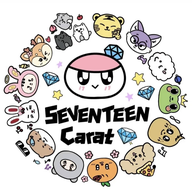
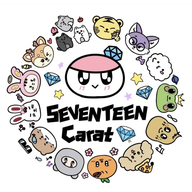
🎨 图标保持原图比例，不裁切不加背景

diff --git a/icons/generate_user_icons.py b/icons/generate_user_icons.py
@@ -4,23 +4,37 @@ import os
 out = os.path.dirname(__file__)
 img = Image.open(os.path.join(out, 'user-logo.jpg')).convert('RGBA')
 
-# 裁切为正方形（从中心）
-width, height = img.size
-size = min(width, height)
-left = (width - size) // 2
-top = (height - size) // 2
-img = img.crop((left, top, left + size, top + size))
-
+# 保持原图比例，缩放适应目标尺寸，不裁切、不加背景
+# 目标尺寸按宽度缩放，高度自适应（保持原图完整）
 sizes = {
-    'icon-192.png': 192,
-    'icon-512.png': 512,
-    'apple-touch-icon.png': 180,
-    'favicon.png': 64,
+    'icon-192.png': (192, 192),
+    'icon-512.png': (512, 512),
+    'apple-touch-icon.png': (180, 180),
+    'favicon.png': (64, 64),
 }
 
-for name, s in sizes.items():
-    resized = img.resize((s, s), Image.LANCZOS)
-    resized.save(os.path.join(out, name), 'PNG')
-    print(f'Generated {name} ({s}x{s})')
+for name, (target_w, target_h) in sizes.items():
+    # 按比例缩放到能完整放入目标框的最大尺寸
+    img_ratio = img.width / img.height
+    target_ratio = target_w / target_h
+
+    if img_ratio > target_ratio:
+        # 图片更宽，按宽度缩放
+        new_w = target_w
+        new_h = int(target_w / img_ratio)
+    else:
+        # 图片更高，按高度缩放
+        new_h = target_h
+        new_w = int(target_h * img_ratio)
+
+    resized = img.resize((new_w, new_h), Image.LANCZOS)
+
+    # 创建透明背景画布，居中放置
+    canvas = Image.new('RGBA', (target_w, target_h), (255, 255, 255, 0))
+    x = (target_w - new_w) // 2
+    y = (target_h - new_h) // 2
+    canvas.paste(resized, (x, y), resized)
+    canvas.save(os.path.join(out, name), 'PNG')
+    print(f'Generated {name} ({target_w}x{target_h})')
 
 print('Done!')
